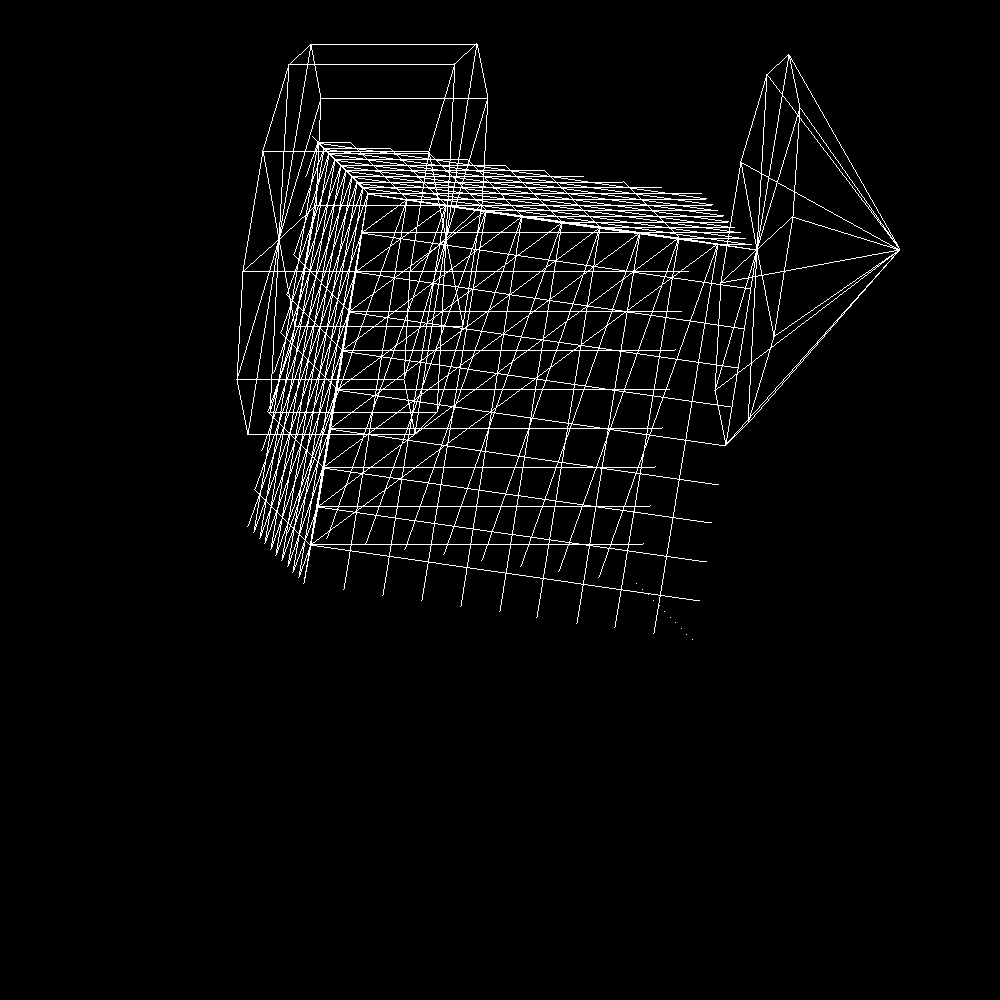
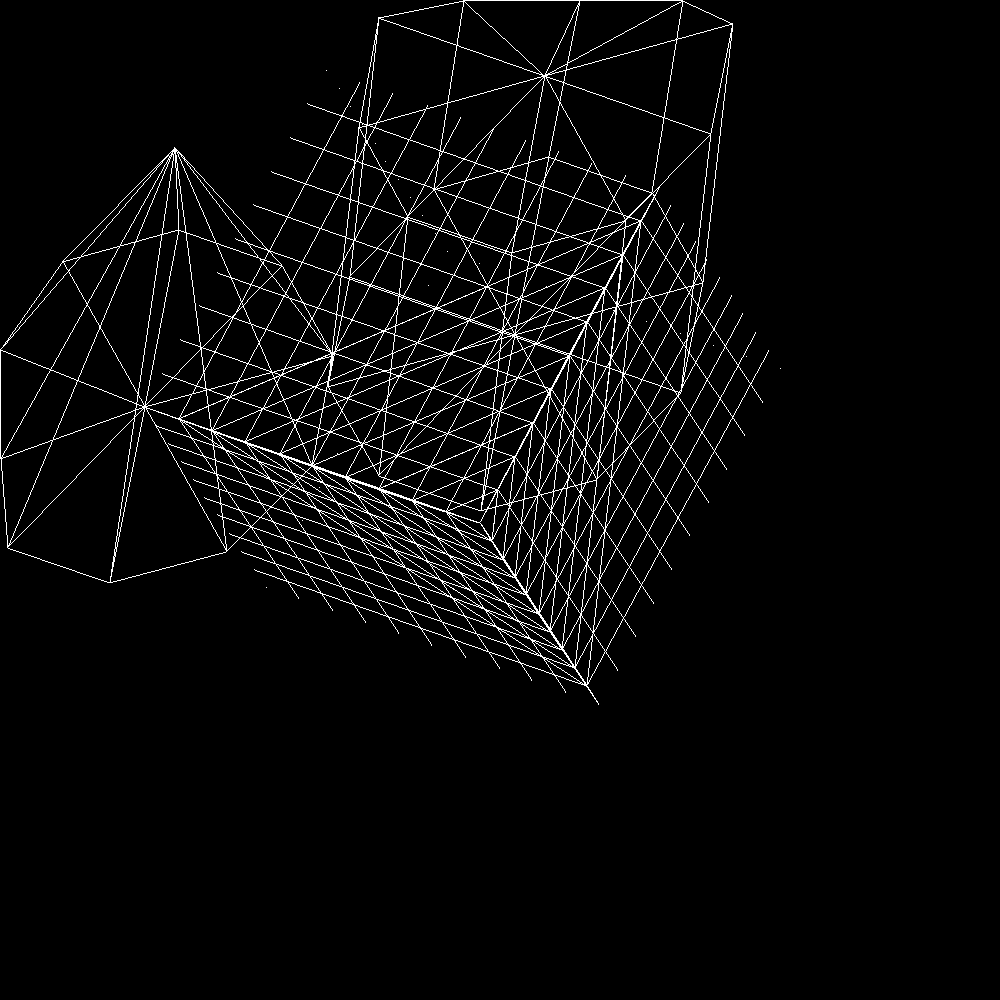
fix cube

diff --git a/a1.py b/a1.py
@@ -62,6 +62,9 @@ class polygon:
         self.point2 = p2
         self.point3 = p3
 
+    def values(self):
+        return [self.point1.send_vals(), self.point2.send_vals(), self.point3.send_vals()]
+
 
 class squarePoly:
 
@@ -672,18 +675,14 @@ def newGrid(res, points, vol, squares):
             
             for list1, list2 in zip(lists, lists[1:]):                
                 
-                for l in range(1, res):
+                for l in range(0, res):
                     polyList.append(polygon(list1[l-1], list1[l], list2[l]))
                     polyList.append(polygon(list1[l-1], list2[l-1], list2[l]))
 
-            list1 = lists[8]
-            list2 = lists[9]
-
-            for l in list1:
-                print(l.send_vals())
-
-            for l in list2:
-                print(l.send_vals())
+                    if l == 1:
+                        for n in polyList:
+                            print(n.values())
+                print(len(polyList))
 
 
 
